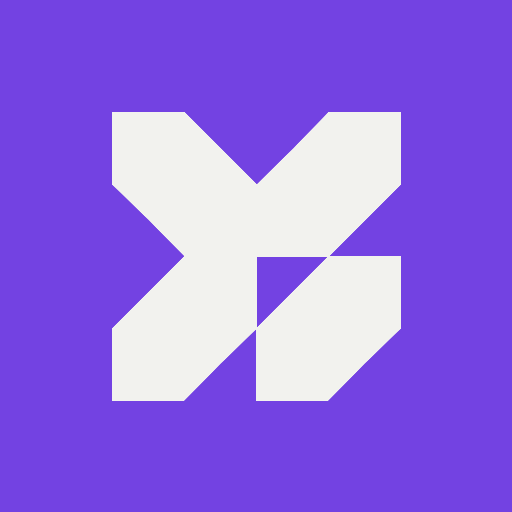
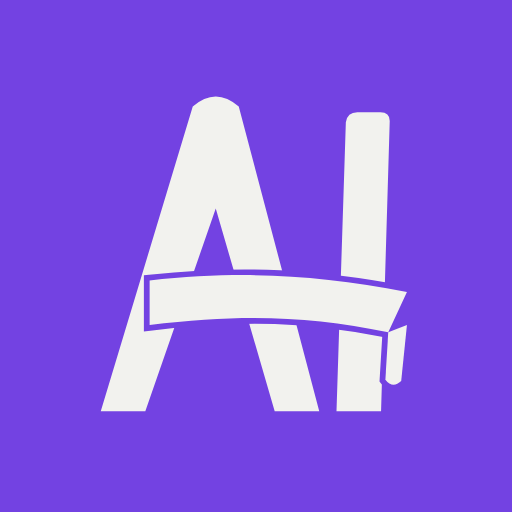
feat(brand): the mark is now the A-I ribbon monogram
The angular X monogram is retired everywhere; the new mark is the A-I ribbon
monogram from the brand kit's mono vectors (512 grid, and deliberately NOT a
single path: a ribbon cuts a masked gap through the letterforms and draws
itself on top).

- src/components/Logo.tsx is the canonical geometry: LogoGlyph exports the
  whole drawing as an embeddable group with a useId mask per instance, because
  the mark renders many times per page and a fixed mask id would resolve every
  instance to whichever mounted first. BlogCover composes LogoGlyph instead of
  keeping a drifting path copy, rescaled 0.86 -> 0.43 for the 512 grid.
- public/favicon.svg and docs/logo.svg carry the new geometry (duplicated by
  necessity, each says so in a comment).
- The OG card is rebuilt: og-image.svg no longer draws the two-generations-old
  ring-and-coin lockup, and og-image.png (plus its docs/images twin) is
  re-rendered from an HTML twin with the real site fonts.
- index.html: apple-touch-icon is a real PNG now (iOS ignores SVG touch icons,
  so the old link was a no-op), and the JSON-LD Organization.logo points at a
  square mark (public/logo/mark-1024.png) instead of the 1200x630 social
  banner, which was wrong on its own terms.
- wallets.ts WalletConnect metadata: new favicon plus the canonical
  a-identity.xyz domain instead of the Vercel alias wallet UIs were shown.
- BrandKit finally ships the mark itself as downloads (mark-mono svgs + 1024
[…]

Changed region(s): [[0.1875, 0.1875, 0.8125, 0.8125], [0.5, 0.6875, 0.5312, 0.7812]]

diff --git a/src/components/Logo.tsx b/src/components/Logo.tsx
@@ -1,3 +1,5 @@
+import { useId } from 'react'
+
 type LogoProps = {
   /** Square edge length in px. Defaults to 32. */
   size?: number
@@ -20,11 +22,61 @@ type LogoProps = {
 }
 
 /**
- * The A-Identity mark, a geometric angular interlock on a 256 grid. Pure path geometry, so
- * it stays crisp at any `size`.
+ * The A-Identity mark (2026-08 rebrand): the A-I ribbon monogram. An A and an I
+ * letterform crossed by a ribbon, drawn on a 512 grid. The geometry comes from the
+ * brand kit's mark-mono SVGs and is the single canonical copy in this codebase; the
+ * static favicon and the docs logo duplicate it only because static files cannot
+ * import TypeScript, and each says so in a comment.
+ *
+ * Unlike the previous angular mark this is NOT a single path: the ribbon cuts a gap
+ * through the letterforms (a luminance mask, color-independent), then draws itself on
+ * top. `LogoGlyph` is the whole drawing as an embeddable group, so consumers that
+ * compose the mark into their own SVG (BlogCover's watermark) reuse the exact
+ * geometry rather than keeping a drifting copy.
  */
-export const MARK_PATH =
-  'M 64 128 L 64.5 128 L 32 95 L 0 64 L 0 0 L 64 0 L 128 64 L 128 64.5 L 161 32 L 192 0 L 256 0 L 256 64 L 192 128 L 128 128 L 128 192 L 96 223 L 63.5 256 L 0 256 L 0 192 Z M 256 192 L 224 223 L 191.5 256 L 128 256 L 128 192 L 192 128 L 256 128 Z'
+export const MARK_VIEWBOX = '0 0 512 512'
+
+/** The ribbon, and the short tail it folds into. Also used, stroked, as the mask cutout. */
+const RIBBON_PATHS = [
+  'M 108 290 C 240 276 340 282 466 306 L 440 362 C 330 340 240 336 108 352 Z',
+  'M 440 362 L 466 352 L 458 430 Q 446 441 436 428 Z',
+]
+
+/** The letterforms: the A's legs, then the I stroke. */
+const BODY_PATHS = [
+  'M 40 472 L 168 48 Q 200 20 232 48 L 344 472 L 282 472 L 200 190 L 102 472 Z',
+  'M 368 472 L 381 70 Q 383 56 397 56 L 429 56 Q 443 56 442 70 L 430 472 Z',
+]
+
+/**
+ * The mark as an embeddable `<g>`, for callers composing it into a larger SVG. The mask
+ * id comes from useId because the mark renders several times per page (navbar, footer,
+ * mobile sheet, one watermark per blog card): a fixed id would make every instance
+ * resolve to whichever mask happened to mount first.
+ */
+export function LogoGlyph({ fill = 'currentColor' }: { fill?: string }) {
+  const maskId = useId()
+  return (
+    <g>
+      <defs>
+        <mask id={maskId} maskUnits="userSpaceOnUse" x="0" y="0" width="512" height="512">
+          <rect width="512" height="512" fill="#fff" />
+          {RIBBON_PATHS.map((d) => (
+            <path key={d} d={d} fill="#000" stroke="#000" strokeWidth="16" />
+          ))}
+        </mask>
+      </defs>
+      <g mask={`url(#${maskId})`}>
+        {BODY_PATHS.map((d) => (
+          <path key={d} d={d} fill={fill} />
+        ))}
+      </g>
+      {RIBBON_PATHS.map((d) => (
+        <path key={d} d={d} fill={fill} />
+      ))}
+    </g>
+  )
+}
 
 export default function Logo({ size = 32, fill = 'currentColor', className }: LogoProps) {
   return (
@@ -34,11 +86,11 @@ export default function Logo({ size = 32, fill = 'currentColor', className }: Lo
       height={size}
       fill="none"
       overflow="visible"
-      viewBox="0 0 256 256"
+      viewBox={MARK_VIEWBOX}
       className={className}
       aria-hidden="true"
     >
-      <path d={MARK_PATH} fill={fill} />
+      <LogoGlyph fill={fill} />
     </svg>
   )
 }

diff --git a/src/routes/BrandKit.tsx b/src/routes/BrandKit.tsx
@@ -188,9 +188,19 @@ export default function BrandKit() {
             that are not reporting an outcome.
           </p>
           <div className="mt-6 grid gap-4 sm:grid-cols-2">
-            <div className="flex items-center justify-center gap-8 rounded-2xl border border-border bg-card p-8">
-              <Logo />
-              <Logo className="scale-150" />
+            <div className="flex flex-col items-center justify-center gap-6 rounded-2xl border border-border bg-card p-8">
+              <div className="flex items-center gap-8">
+                <Logo />
+                <Logo className="scale-150" />
+              </div>
+              {/* The page's own contract (see the intro copy: an asset not on this page
+                  does not exist) used to be false for the mark itself, which had no
+                  download here while every owl shipped three. */}
+              <div className="flex flex-wrap justify-center gap-2">
+                <AssetLink href="/logo/mark-mono-ink.svg" label="mark ink svg" />
+                <AssetLink href="/logo/mark-mono-cream.svg" label="mark cream svg" />
+                <AssetLink href="/logo/mark-1024.png" label="mark 1024 png" />
+              </div>
             </div>
             <div className="grid grid-cols-4 gap-2 rounded-2xl border border-border bg-card p-6">
               {VERDICTS.map(({ v, label }) => (

diff --git a/src/components/BlogCover.tsx b/src/components/BlogCover.tsx
@@ -7,8 +7,9 @@
 
 /* The mark, used below as a faint watermark. Imported rather than pasted: this file used to
  * carry its own copy of the path geometry, which is a third place for it to drift out of
- * step with the Logo component and the favicon. */
-import { MARK_PATH } from './Logo'
+ * step with the Logo component and the favicon. The ribbon monogram is multi-path with a
+ * mask, so the import is the whole glyph as a group rather than one path string. */
+import { LogoGlyph } from './Logo'
 
 const INK_DARK = '#141f2b'
 const INK_LITE = '#1d2e3e'
@@ -100,9 +101,10 @@ export default function BlogCover({ accent, seed = 0, className }: BlogCoverProp
         ))}
       </g>
 
-      {/* Faint A-Identity watermark, bottom-right */}
-      <g transform="translate(560 250) scale(0.86)" opacity="0.1">
-        <path d={MARK_PATH} fill={accent} />
+      {/* Faint A-Identity watermark, bottom-right. The 512-grid glyph at 0.43 keeps the
+          same ~220px footprint the old 256-grid mark had at 0.86. */}
+      <g transform="translate(560 250) scale(0.43)" opacity="0.1">
+        <LogoGlyph fill={accent} />
       </g>
     </svg>
   )

diff --git a/index.html b/index.html
@@ -8,7 +8,8 @@
          drawers pad themselves back out. -->
     <meta name="viewport" content="width=device-width, initial-scale=1.0, viewport-fit=cover" />
     <link rel="icon" type="image/svg+xml" href="/favicon.svg" />
-    <link rel="apple-touch-icon" href="/favicon.svg" />
+    <!-- A PNG, not the SVG: iOS ignores SVG touch icons, so the SVG here was a no-op. -->
+    <link rel="apple-touch-icon" href="/apple-touch-icon.png" />
 
     <!-- Primary meta -->
     <title>A-Identity · The Passport & Wallet for the Agentic Economy</title>
@@ -70,7 +71,7 @@
             "@id": "https://a-identity.xyz/#organization",
             "name": "A-Identity",
             "url": "https://a-identity.xyz/",
-            "logo": "https://a-identity.xyz/og-image.png",
+            "logo": "https://a-identity.xyz/logo/mark-1024.png",
             "description": "The passport and wallet for the agentic economy.",
             "sameAs": [
               "https://x.com/ai_dentity",

diff --git a/src/lib/wallets.ts b/src/lib/wallets.ts
@@ -117,8 +117,10 @@ export async function connectWalletConnect(): Promise<Eip1193> {
     metadata: {
       name: 'A-Identity',
       description: 'Passport + wallet for AI agents on Arc',
-      url: 'https://a-identity.vercel.app',
-      icons: ['https://a-identity.vercel.app/favicon.svg'],
+      // The canonical domain, not the Vercel alias: every other self-reference in the
+      // repo uses a-identity.xyz, and wallet UIs show this URL to the person signing.
+      url: 'https://a-identity.xyz',
+      icons: ['https://a-identity.xyz/favicon.svg'],
     },
   })
   await provider.connect()
